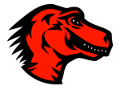
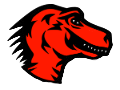
Fixing the srcset of the images

diff --git a/Assignment2/index.html b/Assignment2/index.html
@@ -123,16 +123,32 @@
         <!-- insert images with srcsets and sizes -->
         
         <a href="https://www.mozilla.org/en-US/firefox/new/">
-          <img src = "firefox_logo-only_RGB (400).png" alt = "Firefox logo 400px">
+          <img 
+          srcset="firefox_logo-only_RGB (120).png 120w, 
+          firefox_logo-only_RGB (400).png 400w"
+          sizes="(max-width: 500px) 120px, 400px"
+          src = "firefox_logo-only_RGB (400).png" 
+          alt = "Firefox logo 400px">
         </a>
         <a href="https://www.mozilla.org/">
-          <img src = "mozilla-dinosaur-head(400).png" alt = "Dino head 400px">
+          <img
+          srcset="mozilla-dinosaur-head (120).png 120w, 
+          mozilla-dinosaur-head (400).png 400w"
+          sizes="(max-width: 500px) 120px, 400px" 
+          src = "mozilla-dinosaur-head(400).png" 
+          alt = "Dino head 400px">
         </a>
         <a href="https://addons.mozilla.org/">
-          <img src = "firefox-addons(400).jpg" alt = "Firefox addon 400px">
+          <img
+          srcset="firefox-addons (120).png 120w, 
+          firefox-addons (400).png 400w"
+          sizes="(max-width: 500px) 120px, 400px" 
+          src = "firefox-addons(400).jpg" 
+          alt = "Firefox addon 400px">
         </a>
         <a href="https://developer.mozilla.org/en-US/">
-          <img src = "mdn.svg" alt = "mdn">
+          <img 
+          src = "mdn.svg" alt = "mdn">
         </a>
         <div class="clearfix"></div>
       </div>
